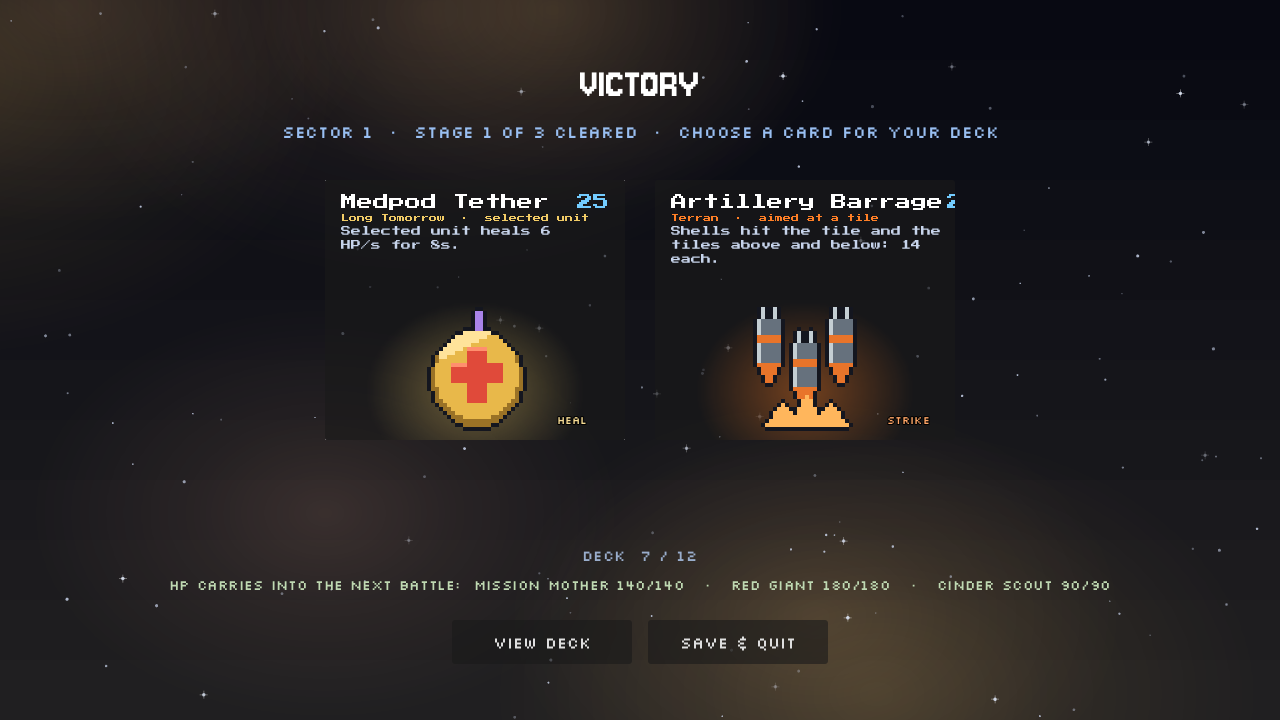
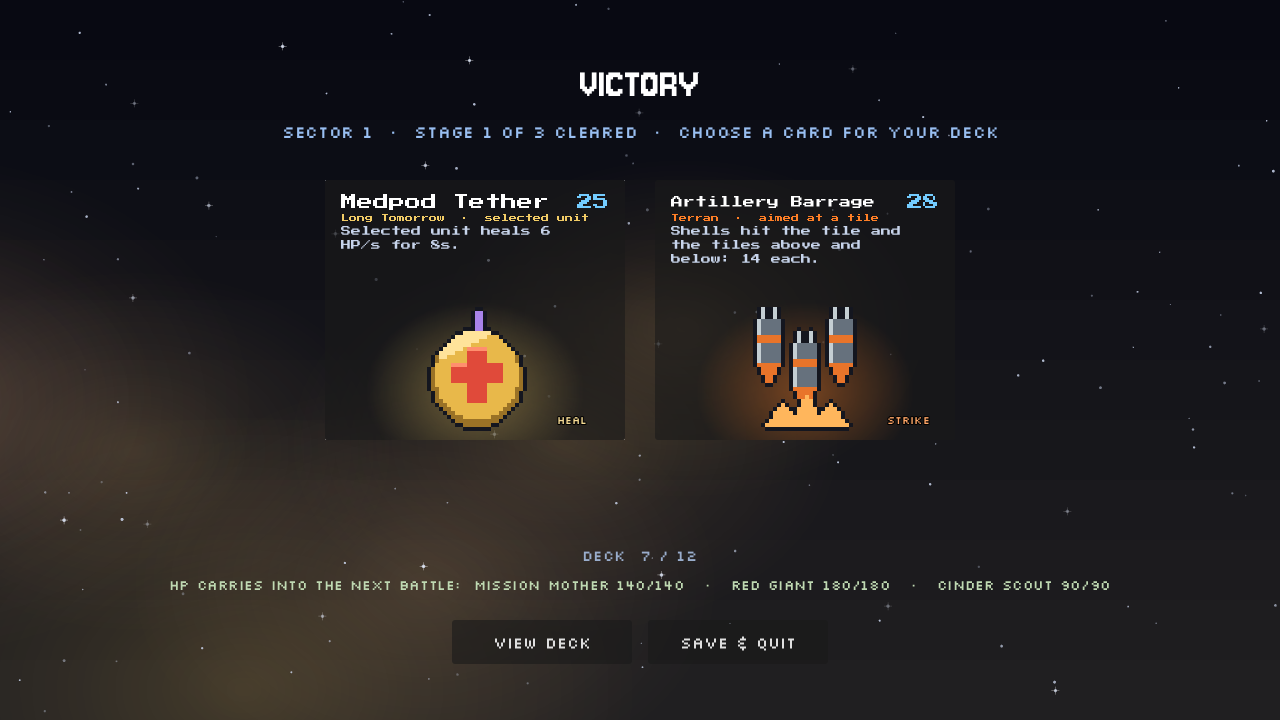
Draft cards: shrink long names so the cost stays visible

diff --git a/kb/NEXT.md b/kb/NEXT.md
@@ -54,3 +54,5 @@ They live in the sandbox (`%LOCALAPPDATA%/Temp/gbs6`): kit and s1-s12, all passi
 - 2026-10-29: sector map text overflow fixed: choice boxes 340x150, names in Jersey 10 (wrap), descriptions 12px; planet names under the map in Jersey 16; SECTOR / CLAIM TO WIN headings widened; 'you face...' line 13px and wraps. Tested with the longest modifiers in a throwaway slot (99, deleted).
 - 2026-10-29: draft offer = 1 card from your faction + 1 from the faction just beaten; extra slots (modifiers/events) random from both, no duplicates (Game.win_battle). Tested over 200 simulated wins.
 - 2026-10-29: draft card tag uses short faction names (Terran / Ascendancy / Manyworlds / Long Tomorrow) so 'faction · target' fits; card text keeps 'HP/s' together (word joiner after '/') in draft, deck view and run end.
+
+- 2026-10-29: Draft cards step the name font down (16 to 8) until it fits beside the cost; "Artillery Barrage" no longer hides its 28. README draft screenshot recaptured.

diff --git a/README.md b/README.md
@@ -451,7 +451,6 @@ They coordinate through the knowledge base in [`kb/`](kb/):
 
 ## Known issues
 
-- Long card names can crowd out the cost on the draft screen (for example, *Artillery Barrage*).
 - Some units with purple art may show a faint magenta fringe left over from the background key.
 - Balance is untuned. Some squads, especially the ●●● leaders, can feel much stronger or weaker than others.
 - Saves from much older alphas are migrated automatically, but may start at sector 1.
